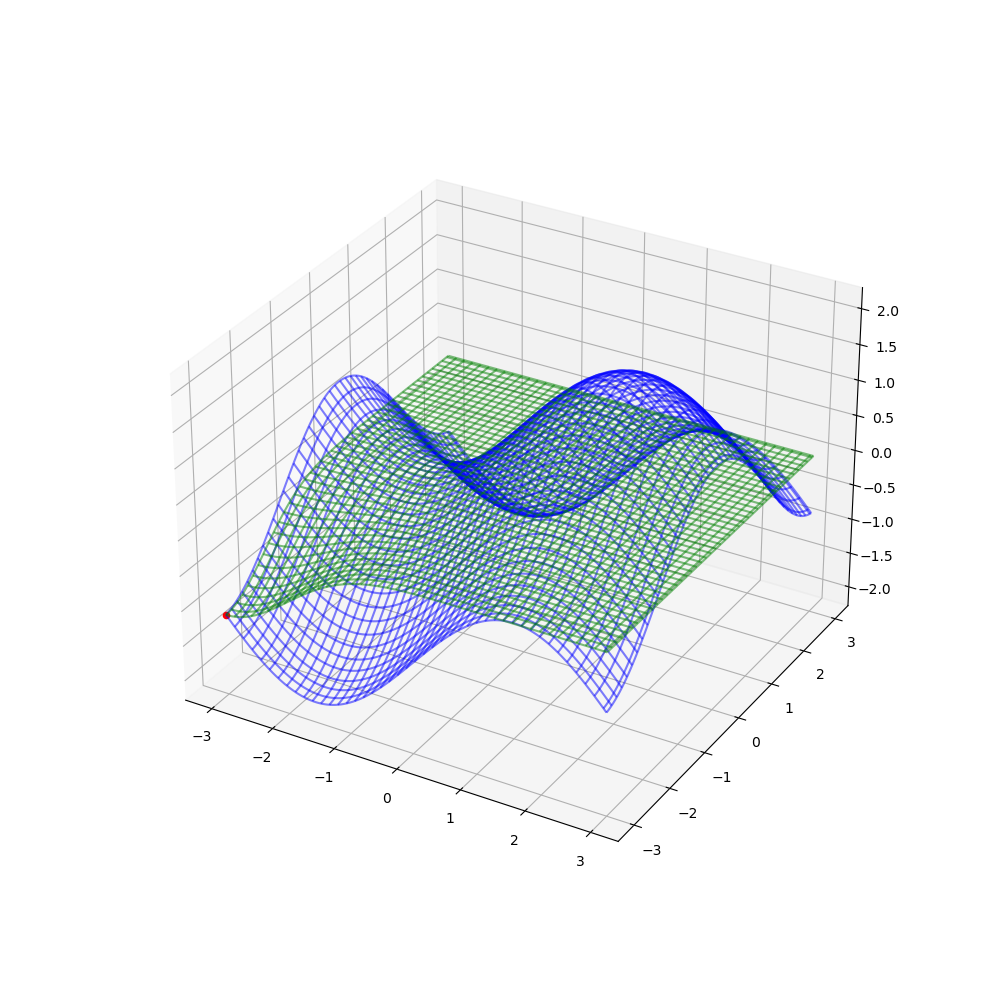
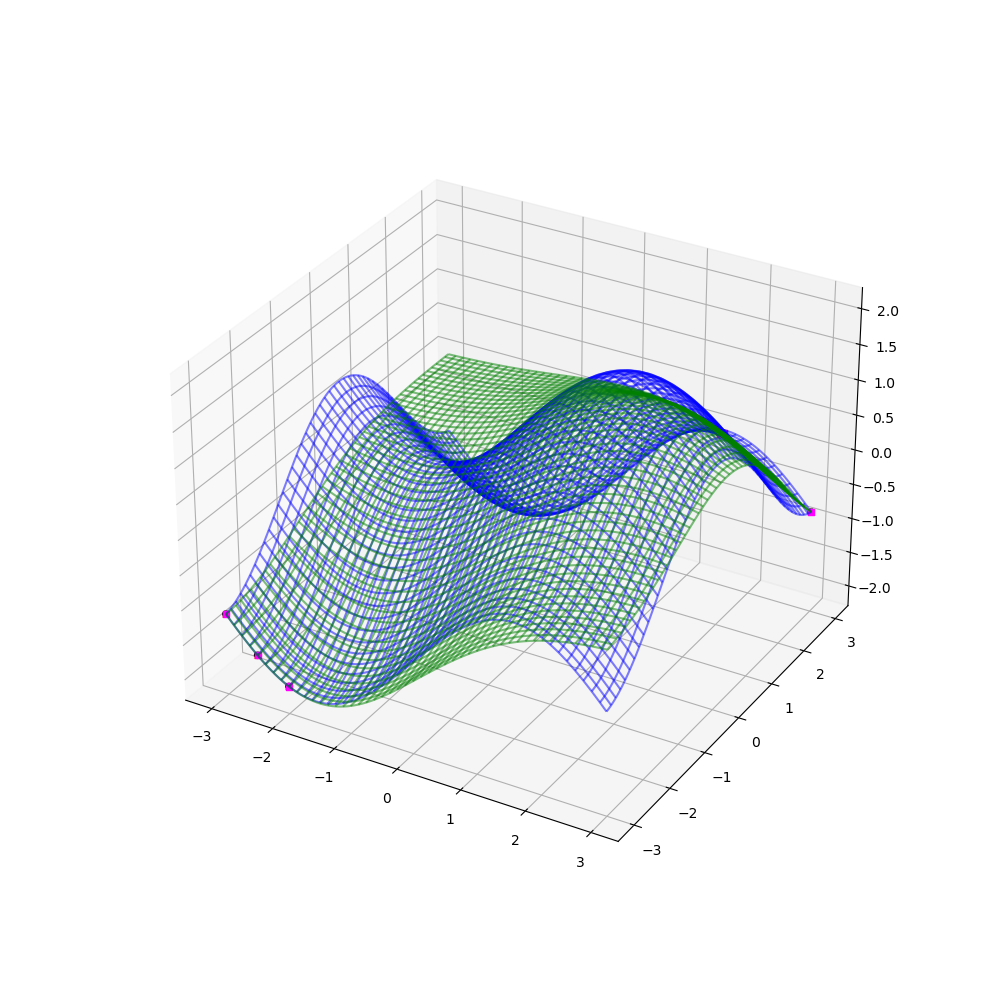
multi-agent v1

Changed region(s): [[0.217, 0.341, 0.837, 0.713], [0.868, 0.465, 0.899, 0.496]]

diff --git a/multi_agent_GPUCB/main.py b/multi_agent_GPUCB/main.py
@@ -1,28 +1,13 @@
 import numpy as np
 from sklearn.gaussian_process import GaussianProcessRegressor
 from sklearn.gaussian_process.kernels import ConstantKernel, RBF
-# from env import env_sample
+from env import env_sample
 from mpl_toolkits.mplot3d import Axes3D
 from matplotlib import pyplot as plt
-# from agents import GPUCB_agent
+from agents import GPUCB_agent
 import argparse
 import os
 import warnings
-
-warnings.filterwarnings("ignore")
-
-parser = argparse.ArgumentParser()
-parser.add_argument("--n", help="number of samples to be taken by the agent",
-                    default=20, type=int)
-parser.add_argument("--beta", help="hyperparameter that dictates exploration vs. exploitation",
-                    default=100., type=float)
-parser.add_argument("--name", help="give a name to the experiment",
-                    default=None, type=str)
-args = parser.parse_args()
-
-directory = "output/" + args.name + "_samples_" + str(args.n)\
-            if args.name != None else "output/" + "samples_" + str(args.n)
-os.makedirs(directory, exist_ok=True)
 
 
 class mesh:
@@ -35,54 +20,22 @@ class mesh:
         self.sigma = 0.5 * np.ones(self.grid.shape[0])
 
 
-class GPUCB_agent():
-    def __init__(self, mesh, env_sample, beta, n_samples, directory):
-        self.directory = directory
-        self.env = env_sample
-        self.meshgrid = mesh
-
-        self.beta = beta
-        self.n_samples = n_samples
-
-        self.visited = []
-        self.sampled_depths = []
-        self.kernel = ConstantKernel(1.0, (1e-4, 1e4)) * RBF(1.0, (1e-4, 1e4))
-        self.gpr = GaussianProcessRegressor(
-            kernel=self.kernel)  # , n_restarts_optimizer=5
-
-        self.samples = 0
-
-    def learn(self, coordinates):
-        self.samples += 1
-        self.visited.append(coordinates)
-        self.sampled_depths.append(self.sample(coordinates))
-        self.gpr.fit(self.visited, self.sampled_depths)
-        self.meshgrid.mu, self.meshgrid.sigma = self.gpr.predict(
-            self.meshgrid.grid, return_std=True)
-        
-
-    def sample(self, coordinates):
-        return self.env(coordinates)
-
-
-def env_sample(coordinates):
-    return np.sin(coordinates[0])+np.cos(coordinates[1])
-
-def plot(meshgrid, agent):
-    fig = plt.figure(figsize=(10,10))
+def plot(meshgrid, agent, n_sample):
+    fig = plt.figure(figsize=(10, 10))
     # ax = Axes3D(fig)
     ax = fig.add_subplot(111, projection='3d')
     ax.plot_wireframe(meshgrid.meshgrid[0], meshgrid.meshgrid[1],
-        meshgrid.mu.reshape(meshgrid.meshgrid[0].shape), alpha=0.5, color='g')
+                      meshgrid.mu.reshape(meshgrid.meshgrid[0].shape), alpha=0.5, color='g')
     ax.plot_wireframe(meshgrid.meshgrid[0], meshgrid.meshgrid[1],
-        env_sample(meshgrid.meshgrid), alpha=0.5, color='b')
+                      env_sample(meshgrid.meshgrid), alpha=0.5, color='b')
     markers = ['o', '^', 's']
     color = ['black', 'lightcoral', 'magenta']
     for idx, a in enumerate(agent):
         ax.scatter([x[0] for x in a.visited], [x[1] for x in a.visited], a.sampled_depths, c=color[idx],
-            marker=markers[idx], alpha=1.0)
-    # plt.savefig(self.directory+"/"+str(self.samples)+".png")
-    plt.show()
+                   marker=markers[idx], alpha=1.0)
+    plt.savefig(directory+"/"+str(n_sample)+".png")
+    # plt.show()
+
 
 def get_cors(meshgrid, agents, beta):
     grid = meshgrid.grid.copy()
@@ -100,6 +53,7 @@ def get_cors(meshgrid, agents, beta):
 
     return cor
 
+
 def allocate_cors(agents, cors):
     new_cors = []
     cors = cors.copy()
@@ -114,14 +68,32 @@ def allocate_cors(agents, cors):
     return new_cors
 
 
-init_cor = [[-3, -3], [-2.5, -3], [-2, -3]]
+if __name__ == "__main__":
+    warnings.filterwarnings("ignore")
 
-meshgrid = mesh()
-agents = [GPUCB_agent(mesh=meshgrid, env_sample=env_sample, beta=args.beta, n_samples=args.n, directory=directory)]*3
+    parser = argparse.ArgumentParser()
+    parser.add_argument("--n", help="number of samples to be taken by the agent",
+                        default=20, type=int)
+    parser.add_argument(
+        "--n_agents", help="number of agents", default=3, type=int)
+    parser.add_argument("--beta", help="hyperparameter that dictates exploration vs. exploitation",
+                        default=100., type=float)
+    parser.add_argument("--name", help="give a name to the experiment",
+                        default=None, type=str)
+    args = parser.parse_args()
 
+    directory = "output/" + args.name + "_samples_" + str(args.n)\
+                if args.name != None else "output/" + "samples_" + str(args.n)
+    os.makedirs(directory, exist_ok=True)
 
-for _ in range(args.n):
-    for i in range(len(agents)):
-        agents[i].learn(init_cor[i])
-    init_cor = get_cors(meshgrid, agents, args.beta)
-    plot(meshgrid, agents)
+    init_cor = [[-3, -3], [-2.5, -3], [-2, -3]]
+
+    meshgrid = mesh()
+    agents = [GPUCB_agent(mesh=meshgrid, env_sample=env_sample,
+                          beta=args.beta, n_samples=args.n, directory=directory)]*3
+
+    for _ in range(args.n):
+        for i in range(len(agents)):
+            agents[i].learn(init_cor[i])
+        init_cor = get_cors(meshgrid, agents, args.beta)
+        plot(meshgrid, agents, _)

diff --git a/multi_agent_GPUCB/agents.py b/multi_agent_GPUCB/agents.py
@@ -4,46 +4,31 @@ from sklearn.gaussian_process.kernels import ConstantKernel, RBF
 from mpl_toolkits.mplot3d import Axes3D
 from matplotlib import pyplot as plt
 
+
 class GPUCB_agent():
-    def __init__(self, env, beta, n_samples, directory):
+    def __init__(self, mesh, env_sample, beta, n_samples, directory):
         self.directory = directory
-        self.env = env
-        self.meshgrid = self.env.meshgrid
-        self.grid = np.c_[self.meshgrid[0].ravel(), self.meshgrid[1].ravel()]
+        self.env = env_sample
+        self.meshgrid = mesh
+
         self.beta = beta
         self.n_samples = n_samples
 
         self.visited = []
         self.sampled_depths = []
         self.kernel = ConstantKernel(1.0, (1e-4, 1e4)) * RBF(1.0, (1e-4, 1e4))
-        self.gpr = GaussianProcessRegressor(kernel=self.kernel) #, n_restarts_optimizer=5
+        self.gpr = GaussianProcessRegressor(
+            kernel=self.kernel)  # , n_restarts_optimizer=5
 
         self.samples = 0
-        self.mu = np.zeros(self.grid.shape[0])
-        self.sigma = 0.5 * np.ones(self.grid.shape[0])
-        
 
     def learn(self, coordinates):
         self.samples += 1
         self.visited.append(coordinates)
         self.sampled_depths.append(self.sample(coordinates))
         self.gpr.fit(self.visited, self.sampled_depths)
-        self.mu, self.sigma = self.gpr.predict(self.grid, return_std=True)
-        self.plot()
-        return (self.grid[np.argmax(self.mu + self.sigma * np.sqrt(self.beta))], self.samples==self.n_samples)
+        self.meshgrid.mu, self.meshgrid.sigma = self.gpr.predict(
+            self.meshgrid.grid, return_std=True)
 
     def sample(self, coordinates):
-        return self.env.sample(coordinates)
-
-    def plot(self):
-        fig = plt.figure(figsize=(10,10))
-        # ax = Axes3D(fig)
-        ax = fig.add_subplot(111, projection='3d')
-        ax.plot_wireframe(self.meshgrid[0], self.meshgrid[1],
-            self.mu.reshape(self.meshgrid[0].shape), alpha=0.5, color='g')
-        ax.plot_wireframe(self.meshgrid[0], self.meshgrid[1],
-            self.env.sample(self.meshgrid), alpha=0.5, color='b')
-        ax.scatter([x[0] for x in self.visited], [x[1] for x in self.visited], self.sampled_depths, c='r',
-            marker='o', alpha=1.0)
-        # plt.savefig(self.directory+"/"+str(self.samples)+".png")
-        plt.show()
+        return self.env(coordinates)

diff --git a/multi_agent_GPUCB/env.py b/multi_agent_GPUCB/env.py
@@ -10,5 +10,6 @@ class environment():
     def sample(self, coordinates):
         return np.sin(coordinates[0])+np.cos(coordinates[1])
 
+
 def env_sample(coordinates):
     return np.sin(coordinates[0])+np.cos(coordinates[1])
